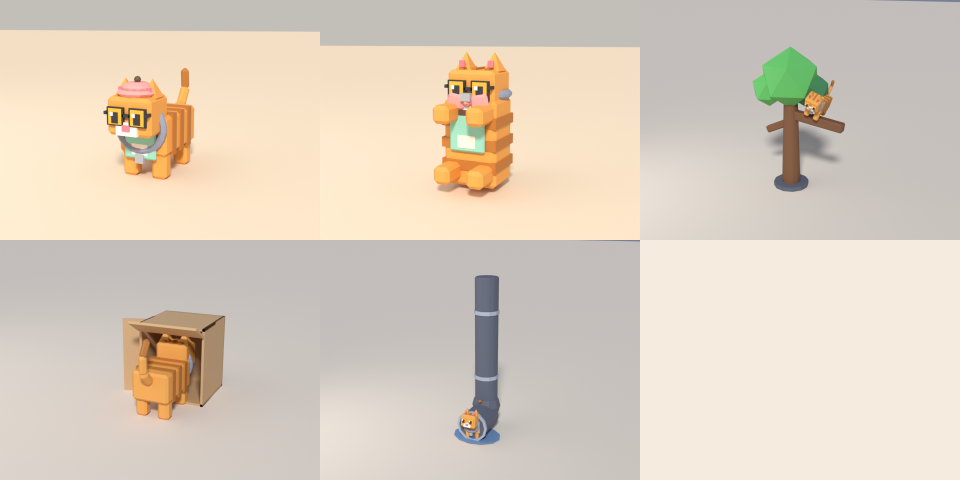
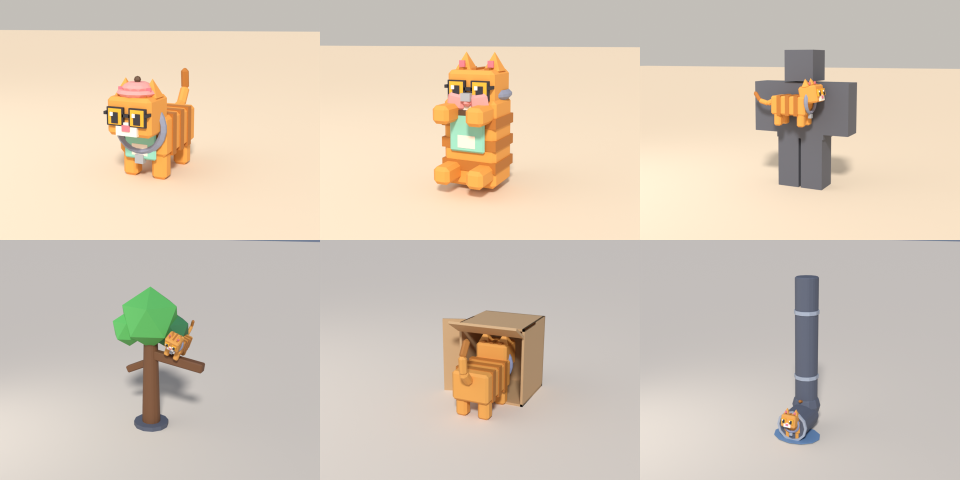
assets: carried pose relative to the HRP centre, cradled; full suffix list
The carried pose put the cat 3.2 studs above the HumanoidRootPart, a
height measured from the feet. It is now relative to the HRP centre
(3 studs above the floor on R15) and cradles the cat across the chest
so a camera behind the player sees it side on. Pose_Carried.png checks
it against an R15-sized stand-in. Style guide section 6 now lists every
object suffix, including _Bulbs and _Pane (reviewer nit N26).

Claude-Session: https://claude.ai/code/session_019pgK9B4ra9DvizCEwxEQkX

diff --git a/assets/cat-cafe/blender/poses.py b/assets/cat-cafe/blender/poses.py
@@ -21,8 +21,9 @@ import common
 POSES = {
     "upright": dict(pivot=(0, 0.5, 0), rot=(-90, 0, 0), offset=(0, 0, 0.3), head=(90, 0, 0), tail=(80, 0, 0),
                     note="Stands on the hind legs. Same parts; Head pitched back to face forward. Accessories keep their offsets."),
-    "carried": dict(pivot=(0, 0, 0), rot=(20, 0, 0), offset=(0, -1.2, 3.2), head=(-20, 0, 0), tail=(-40, 0, 0),
-                    note="Held in front of the chest, relative to the character's HumanoidRootPart."),
+    "carried": dict(pivot=(0, 0, 0), rot=(0, 0, 90), offset=(0, -1.05, -0.4), head=(-10, 0, 0), tail=(-40, 0, 0),
+                    note="Cradled across the chest, facing the character's left, so the camera behind the player "
+                         "sees the cat side on. Relative to the HumanoidRootPart centre (R15: 3 studs above the floor)."),
 }
 STUCK_POSES = {
     "CatCafe_Alley_StuckTree": dict(pivot=(0, 0, 0), rot=(0, 20, 0), offset=(1.4, 0, 4.4), head=(30, 0, 0), tail=(10, 0, 0),
@@ -119,6 +120,21 @@ def manifest_pose(pose):
     }
 
 
+# R15-sized stand-in, floor at z 0, HumanoidRootPart centre at z 3 (HipHeight 2 + half the 2-stud HRP)
+HRP_HEIGHT = 3.0
+
+
+def r15_proxy(mat):
+    b = common.Builder()
+    for x in (-0.5, 0.5):
+        b.box((x, 0, 1.0), (0.9, 1.0, 2.0), "concrete_dark", bevel=False)       # legs
+    b.box((0, 0, 3.1), (2.0, 1.0, 2.2), "concrete_dark", bevel=False)          # torso
+    b.box((0, 0, 4.85), (1.2, 1.2, 1.2), "concrete_dark", bevel=False)         # head
+    for x in (-1.5, 1.5):
+        b.box((x, 0, 3.2), (1.0, 1.0, 2.0), "concrete_dark", bevel=False)       # arms
+    return b.finalize("_Proxy_R15", mat)
+
+
 def render_pose_previews(built, mat, docs, samples=32, cat="CatCafe_Cat_Tabby"):
     """Rescue props with the stuck cat, the accessory set, the upright and carried poses."""
     cat_objs = built.get(cat)
@@ -155,4 +171,13 @@ def render_pose_previews(built, mat, docs, samples=32, cat="CatCafe_Cat_Tabby"):
     common.render_preview(copies + acc, path, samples=samples, warm=True, azimuth=25, elevation=10)
     cleanup(copies + acc)
     made["Pose_Upright"] = path
+    # carried, against an R15-sized stand-in
+    proxy = r15_proxy(mat)
+    copies = posed_copies(cat_objs, POSES["carried"], world=Matrix.Translation((0, 0, HRP_HEIGHT)))
+    path = os.path.join(docs, "previews", "Pose_Carried.png")
+    common.hide_all_meshes()
+    common.show([proxy] + copies)
+    common.render_preview([proxy] + copies, path, samples=samples, warm=True, azimuth=25, elevation=8)
+    cleanup(copies + [proxy])
+    made["Pose_Carried"] = path
     return made

diff --git a/assets/cat-cafe/blender/contact_sheet.py b/assets/cat-cafe/blender/contact_sheet.py
@@ -83,7 +83,7 @@ def build_sheets(docs_dir, manifest):
         "sheet_items": [e for e in manifest if e["category"] in ("Item", "Accessory")],
     }
     extras = [os.path.join(docs_dir, "previews", n + ".png") for n in
-              ("CatCafe_Accessory_Set", "Pose_Upright", "CatCafe_Alley_StuckTree", "CatCafe_Alley_StuckBox", "CatCafe_Alley_Drainpipe")]
+              ("CatCafe_Accessory_Set", "Pose_Upright", "Pose_Carried", "CatCafe_Alley_StuckTree", "CatCafe_Alley_StuckBox", "CatCafe_Alley_Drainpipe")]
     extras = [p for p in extras if os.path.exists(p)]
     if extras:
         sheet(extras, os.path.join(docs_dir, "sheet_poses.png"), cols=3)

diff --git a/docs/art/style-guide.md b/docs/art/style-guide.md
@@ -170,7 +170,7 @@ Examples: `CatCafe_Cat_Tabby`, `CatCafe_Cat_Tabby_Head`, `CatCafe_Furniture_Coun
 
 The full list with sizes, triangle counts and Studio notes is generated into `assets/cat-cafe/exports/manifest.json`. The roster of cats and the asset order come from `docs/design/cat-cafe/data-model.md` section 3 and `features.md` section 5; this guide does not duplicate them.
 
-Parts that need a Studio material are separate objects inside one asset, suffixed by job: `_Tube` and `_Bulb` (Neon), `_Glass` and `_Water` (Transparency), `_LeafL` and `_LeafR` (gate leaves that swing), and the cat's `_Body`, `_Head`, `_Tail`. Everything else is one object, one MeshPart.
+Parts that need a Studio material or a script are separate objects inside one asset, suffixed by job: `_Tube`, `_Bulb`, `_Bulbs` and `_Pane` (Neon at night, section 9), `_Glass` and `_Water` (Transparency), `_LeafL` and `_LeafR` (gate leaves that swing), `_Open` and `_Closed` (door sign faces, one visible at a time), `_Handle` and `_Bag` (the net Tool's grip and net), and the cat's `_Body`, `_Head`, `_Tail`. Other suffixes in a multi-object asset (`_Board`, `_Frame`, `_Post`, `_Wire` and the like) are plain SmoothPlastic parts. Everything else is one object, one MeshPart.
 
 A cat exports as one FBX containing three objects: `<Name>_Body` (legs included), `<Name>_Head` and `<Name>_Tail`. Studio imports that as a Model with three MeshParts, so the engineer can tween the head (bob, look at customer) and tail (wag) with CFrames without a skeleton. Rigged, animated cats are a later phase.
 
@@ -220,7 +220,7 @@ After every visual task save 2 to 4 PNGs to `docs/concepts/cat-cafe/` with a one
 
 ## 12. Poses
 
-The slice has no skeleton. A pose is a CFrame for the Body plus a local rotation for the Head and the Tail, so it works for every cat. `manifest.json` carries `poses` (upright, carried) and a `stuck_pose` on each rescue prop (StuckTree, StuckBox, Drainpipe), with every value in both Blender and Roblox axes; `body_cframe_roblox` is the Body CFrame as 12 numbers for `CFrame.new(table.unpack(t))`. Idle bob and tail wag are tweens the engineer writes (features.md priority 11). Gavin's reference images (in the shared project folder under cat-cafe/docs/concepts/cat-cafe/reference/, not committed because they are not ours) show cube-headed collectible cats with big glossy eyes and an upright cat in a suit; we keep one quadruped rig, gave the eyes a larger glossy highlight, and proved the upright pose with the same parts (`previews/Pose_Upright.png`) so question 15 can go either way without a restart.
+The slice has no skeleton. A pose is a CFrame for the Body plus a local rotation for the Head and the Tail, so it works for every cat. `manifest.json` carries `poses` (upright, carried) and a `stuck_pose` on each rescue prop (StuckTree, StuckBox, Drainpipe), with every value in both Blender and Roblox axes. Carried is relative to the HumanoidRootPart centre, which sits 3 studs above the floor on a default R15 character (`previews/Pose_Carried.png`). `body_cframe_roblox` is the Body CFrame as 12 numbers for `CFrame.new(table.unpack(t))`. Idle bob and tail wag are tweens the engineer writes (features.md priority 11). Gavin's reference images (in the shared project folder under cat-cafe/docs/concepts/cat-cafe/reference/, not committed because they are not ours) show cube-headed collectible cats with big glossy eyes and an upright cat in a suit; we keep one quadruped rig, gave the eyes a larger glossy highlight, and proved the upright pose with the same parts (`previews/Pose_Upright.png`) so question 15 can go either way without a restart.
 
 ## 13. Rules
 

diff --git a/docs/concepts/cat-cafe/README.md b/docs/concepts/cat-cafe/README.md
@@ -7,7 +7,7 @@ All images here are rendered from the generated Blender assets in `assets/cat-ca
 | `vignette_cafe.png` | Cafe interior at cafe level 3: counter with the level 2 espresso machine, Tabby on the counter spot, Tuxedo on the window seat, Void on the wall shelf, Siamese on the cat tree, Calico on the cushion, two tables, fish tank, neon sign, three customers. Lamps are warm point lights. |
 | `vignette_alley.png` | The alley behind the cafe at dusk: dumpster with Smoke on the lid, trash cans, crates and boxes beside the spawn points, premium bowl with a tuna lure and Void approaching it, one street lamp doing the lighting. |
 | `vignette_alley_night.png` | The same alley at night: street lamp, glowing shop window, string lights and the Closed sign switched to Neon, the three rescue props each with a stuck Ginger. Target look for the night lighting preset in the style guide. |
-| `sheet_poses.png` | Tabby wearing the accessory set (glasses, hat, bow tie, apron), the upright pose test with the same parts, and the three rescue props with their stuck pose. |
+| `sheet_poses.png` | Tabby wearing the accessory set (glasses, hat, bow tie, apron), the upright pose test with the same parts, the carried pose against an R15-sized stand-in, and the three rescue props with their stuck pose. |
 | `sheet_cats.png` | The 12 slice cats from one rig: Tabby, Tuxedo, Ginger, Smoke, Snow, Calico, Siamese, Tortie, Bengal, Sphynx, Ragdoll, Void. Collar color is rarity. |
 | `sheet_cafe.png` | Customers, counter, espresso machine levels 1 to 3, the five cat spots, table and chair, decor. |
 | `sheet_outdoors.png` | Alley and park sets, including the rescue props and the shop window. |

diff --git a/assets/cat-cafe/exports/gates.md b/assets/cat-cafe/exports/gates.md
@@ -1,6 +1,6 @@
 # Asset gates
 
-Generated by `build_all.py` on 2026-10-26 17:34 UTC. 63 assets: 63 PASS (32 with warnings), 0 FAIL. FAIL checks: budget, transforms, material, uv, naming. WARN checks: pivot, centered. Fix a FAIL in the generator module and rebuild; a WARN needs a look at the five-view sheet in `docs/concepts/cat-cafe/views/`.
+Generated by `build_all.py` on 2026-10-26 17:40 UTC. 63 assets: 63 PASS (32 with warnings), 0 FAIL. FAIL checks: budget, transforms, material, uv, naming. WARN checks: pivot, centered. Fix a FAIL in the generator module and rebuild; a WARN needs a look at the five-view sheet in `docs/concepts/cat-cafe/views/`.
 
 | asset | result | tris / budget | size (studs) | failed | warnings |
 |---|---|---|---|---|---|
